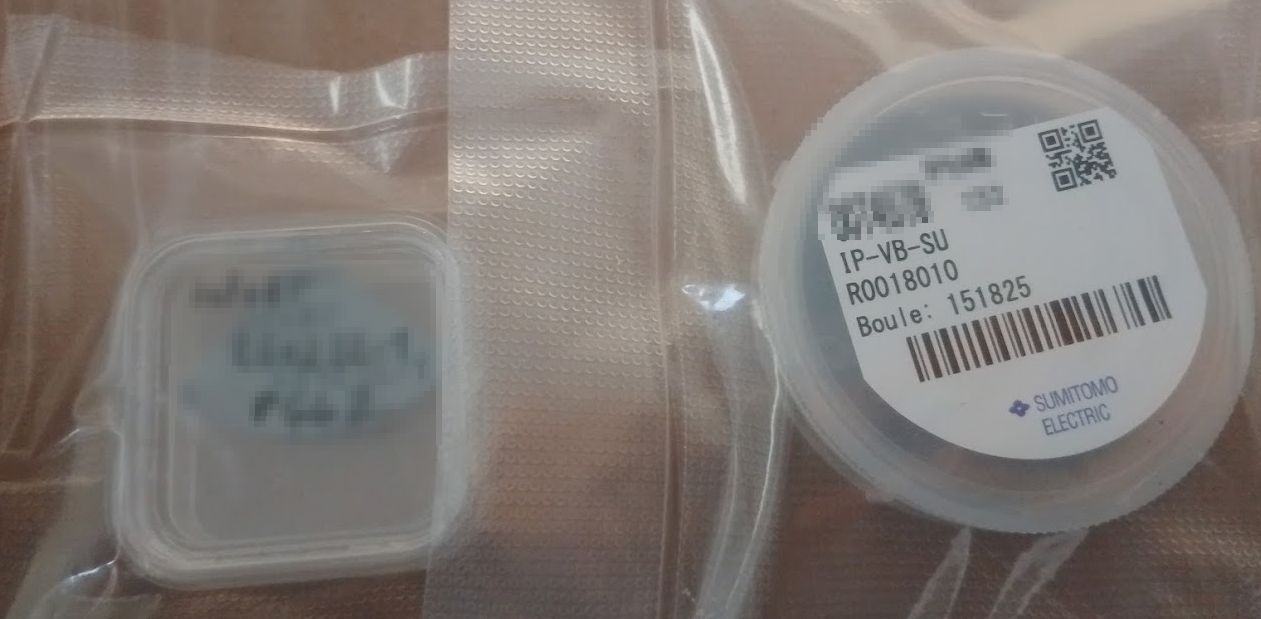
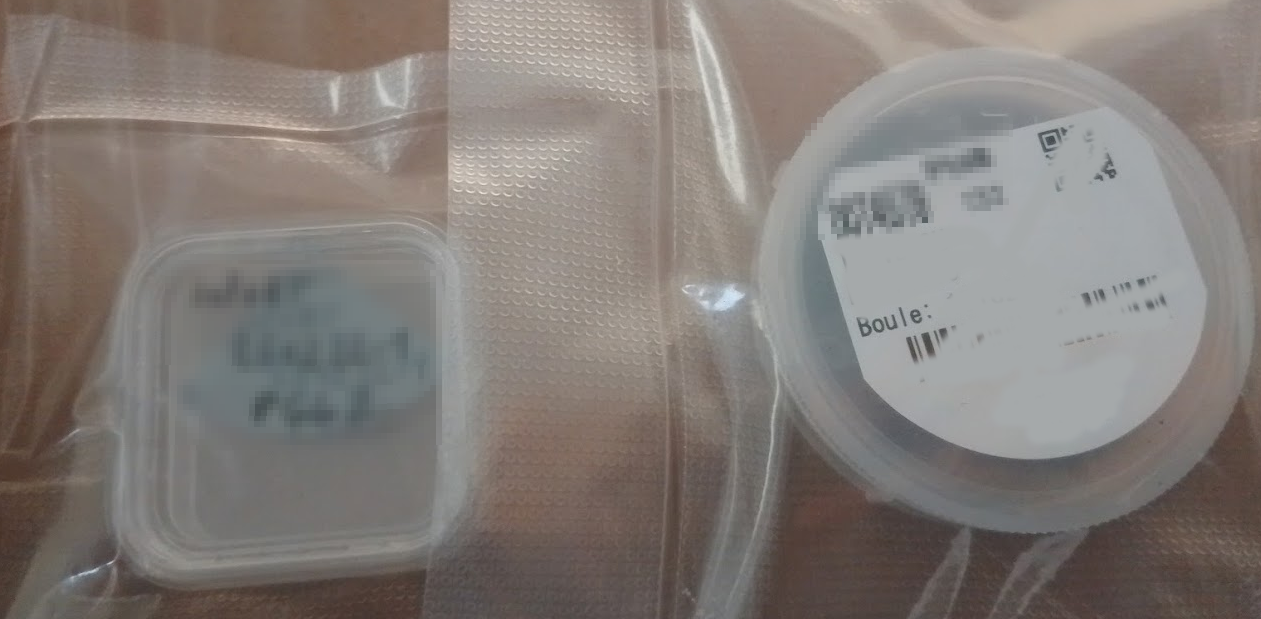
Fix post

Changed region(s): [[0.6495, 0.3683, 0.9278, 0.6139], [0.8351, 0.1842, 0.8969, 0.3069], [0.8041, 0.6139, 0.8969, 0.706]]

diff --git a/_posts/2025-12-28-Photin-quantum-wells.md b/_posts/2025-12-28-Photin-quantum-wells.md
@@ -47,8 +47,7 @@ while.
 Long term it turned out to be excellent decision.  
 InP platform give much more insight and control.. excellent ECV for
 background doping confirmation, specular surfaces, lattice matched
-ternary InGaAs, and excellent InP substrates from our reliable partner
-(Sumitomo). On such platform, any equipment problem is immediately
+ternary InGaAs. On such platform, any equipment problem is immediately
 obvious.  
 It was great joy to go back to materials we have so much commercial
 experience, and are so familiar with epi-designs:  
